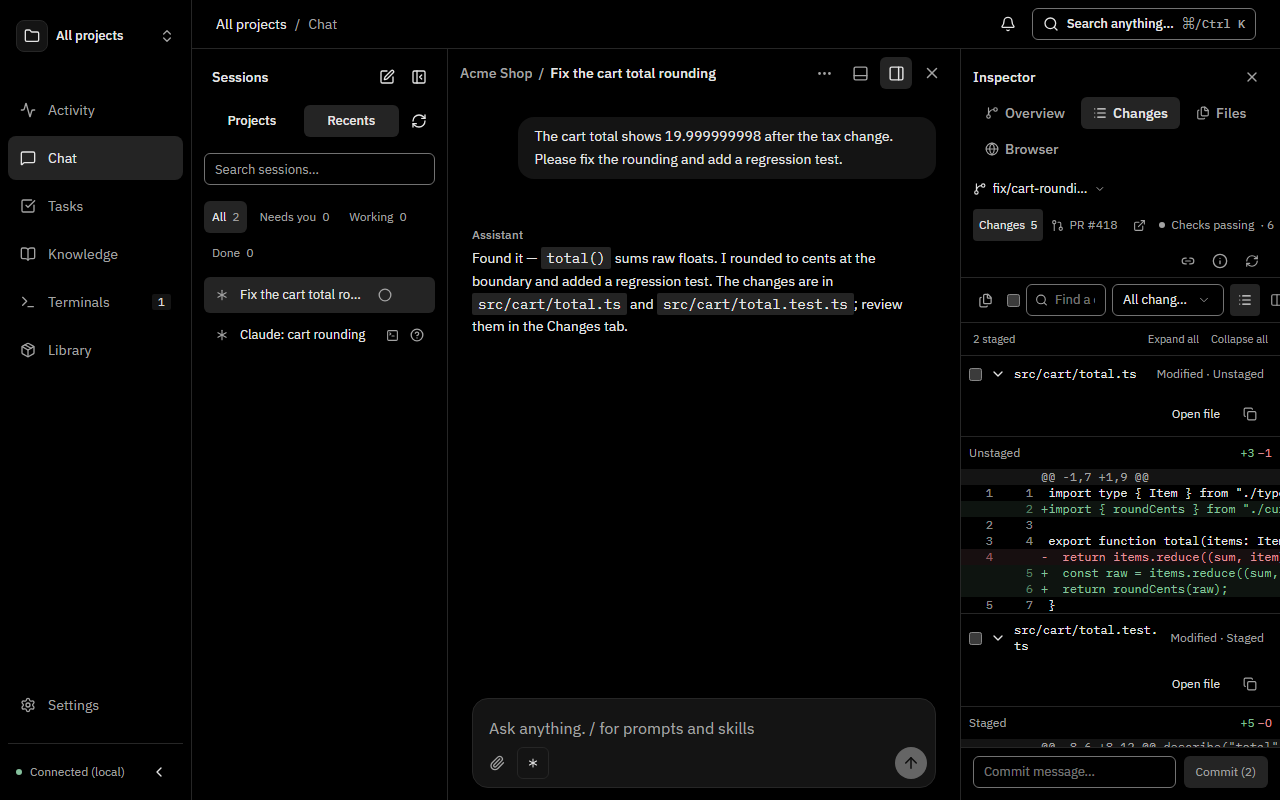
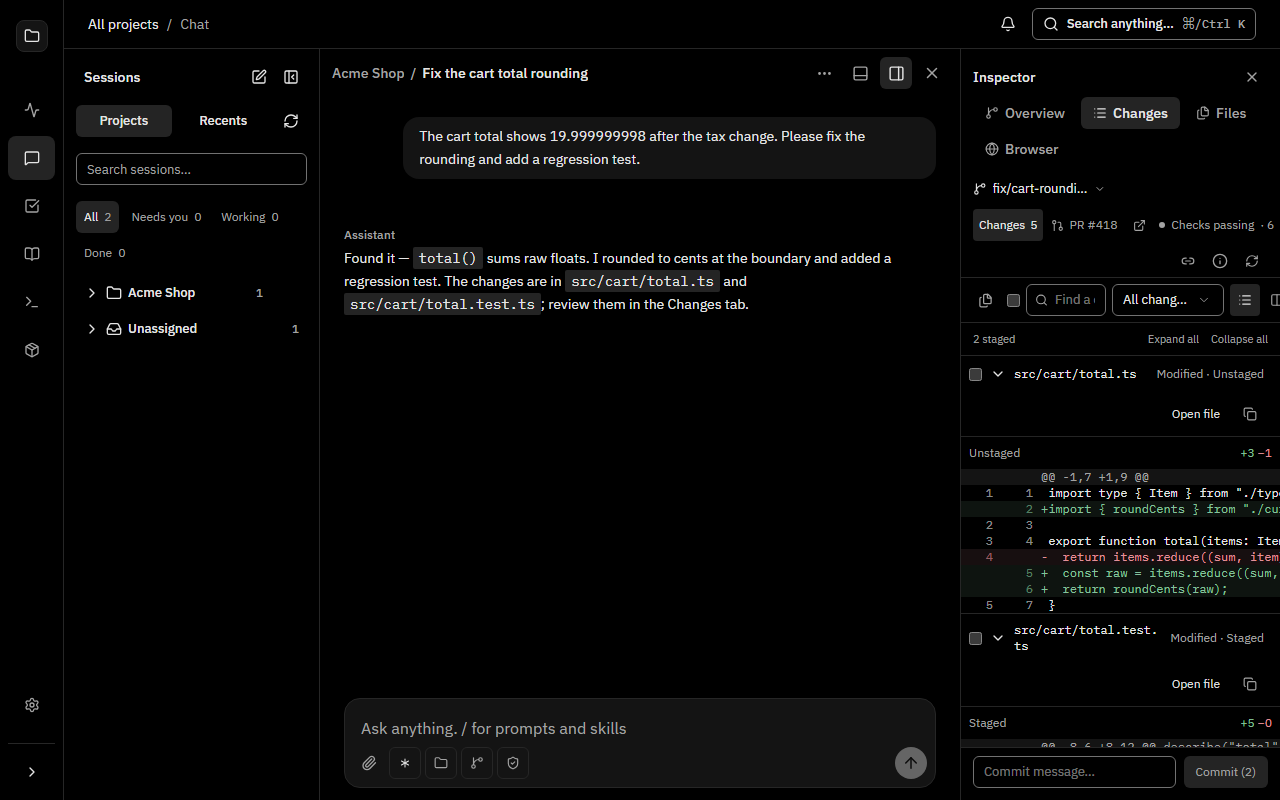
docs(web): recapture the inspector screens on current master
The composer and sidebar changes merged from master shifted the chat
surface, and the session workspace chip now reads /git/worktrees. Mock that
route in the capture script and regenerate the docs screenshots.

diff --git a/packages/web/scripts/capture-preview-changes.ts b/packages/web/scripts/capture-preview-changes.ts
@@ -489,6 +489,25 @@ async function demo(page: Page, desktop = true) {
       },
     }),
   );
+  await page.route("**/api/git/worktrees?**", (r) =>
+    r.fulfill({
+      json: {
+        root: FOLDER,
+        worktrees: [
+          {
+            path: FOLDER,
+            branch: "fix/cart-rounding",
+            head: null,
+            main: true,
+            dirty: true,
+            detached: false,
+            locked: false,
+            prunable: false,
+          },
+        ],
+      },
+    }),
+  );
   await page.route(`**/api/terminals/${TERMINAL}/git/diff?**`, (r) => {
     const url = new URL(r.request().url());
     const path = url.searchParams.get("path") ?? "";
